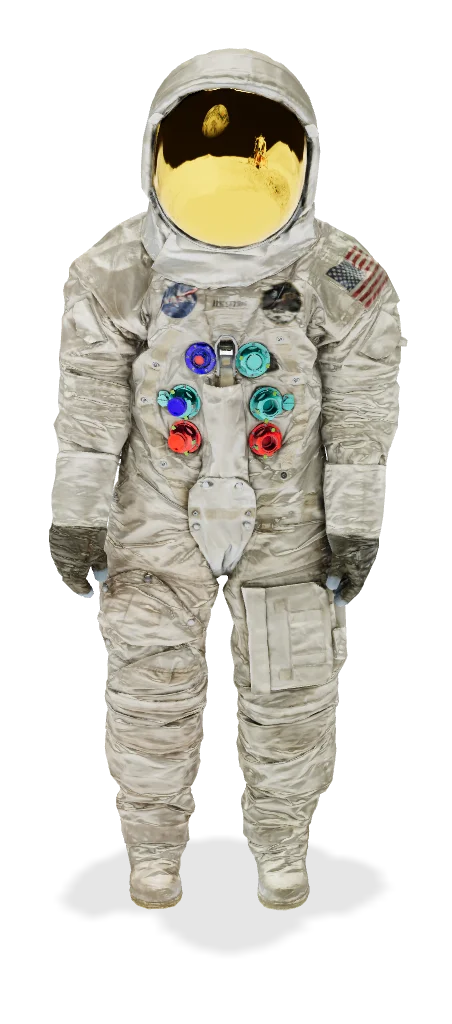
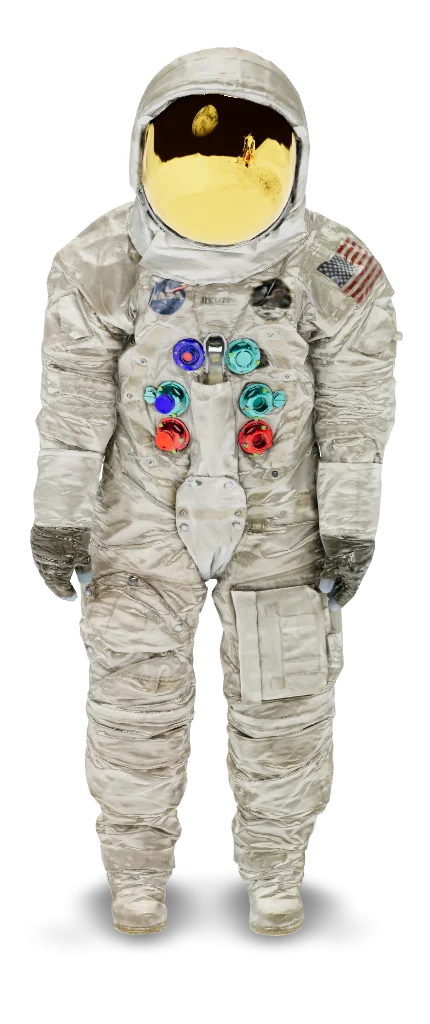
updated poster and a few minor HTML things

Changed region(s): [[0.0605, 0.0312, 0.9372, 0.9375]]

diff --git a/packages/modelviewer.dev/index.html b/packages/modelviewer.dev/index.html
@@ -76,7 +76,7 @@
 <script type="module" src="https://unpkg.com/@google/model-viewer/dist/model-viewer.min.js"></script>
 
 <!-- Use it like any other HTML element -->
-<model-viewer alt="Neil Armstrong's Spacesuit from the Smithsonian Digitization Programs Office and National Air and Space Museum" src="shared-assets/models/NeilArmstrong.glb" ar ar-modes="webxr scene-viewer quick-look" environment-image="shared-assets/environments/moon_1k.hdr" poster="shared-assets/models/NeilArmstrong.webp" seamless-poster shadow-intensity="1" camera-controls></model-viewer>
+<model-viewer alt="Neil Armstrong's Spacesuit from the Smithsonian Digitization Programs Office and National Air and Space Museum" src="shared-assets/models/NeilArmstrong.glb" ar ar-modes="webxr scene-viewer quick-look" environment-image="shared-assets/environments/moon_1k.hdr" poster="shared-assets/models/NeilArmstrong.webp" seamless-poster shadow-intensity="1" camera-controls enable-pan></model-viewer>
                 </template>
               </example-snippet>
             </div>
@@ -117,7 +117,7 @@
           <ol class="new-list-example">
             <li>
               <h4>
-                API <a href="docs/index.html">Documentation</a> &amp; <a href="examples/loading/index.html">Examples</a>
+                API <a href="docs/index.html">Documentation</a> &amp; <a href="examples/augmentedreality/index.html">Examples</a>
               </h4>
             </li>
           </ol>

diff --git a/packages/modelviewer.dev/examples/annotations/index.html b/packages/modelviewer.dev/examples/annotations/index.html
@@ -344,7 +344,6 @@
       poster="../../assets/SketchfabModels/ThorAndTheMidgardSerpent.webp"
       ar
       ar-modes="webxr scene-viewer quick-look"
-      oncontextmenu="return false;"
     >
   <button class="view-button" slot="hotspot-0" 
     data-position="-0.0569m 0.0969m -0.1398m" data-normal="-0.5829775m 0.2863482m -0.7603565m" 
@@ -409,14 +408,14 @@
 </model-viewer>
 
 <script type="module">
-  const modelViewer = document.querySelector("#hotspot-camera-view-demo");
+  const modelViewer1 = document.querySelector("#hotspot-camera-view-demo");
   const annotationClicked = (annotation) => {
     let dataset = annotation.dataset;
-    modelViewer.cameraTarget = dataset.target;
-    modelViewer.cameraOrbit = dataset.orbit;
+    modelViewer1.cameraTarget = dataset.target;
+    modelViewer1.cameraOrbit = dataset.orbit;
   }
 
-  modelViewer.querySelectorAll('button').forEach((hotspot) => {
+  modelViewer1.querySelectorAll('button').forEach((hotspot) => {
     console.log("hello hotspot", hotspot);
     hotspot.addEventListener('click', () => annotationClicked(hotspot));
   });

diff --git a/packages/modelviewer.dev/examples/loading/index.html b/packages/modelviewer.dev/examples/loading/index.html
@@ -467,7 +467,7 @@ self.ModelViewerElement.meshoptDecoderLocation = 'https://unpkg.com/meshoptimize
           </div>
           <example-snippet stamp-to="cyclingModels" highlight-as="html">
             <template>
-<model-viewer id="toggle-model" src="../../shared-assets/models/shishkebab.glb" alt="A 3D model of a shishkebab" shadow-intensity="1" camera-controls auto-rotate></model-viewer>
+<model-viewer id="toggle-model" src="../../shared-assets/models/shishkebab.glb" alt="A 3D model of a shishkebab" shadow-intensity="1" bounds="tight" camera-controls auto-rotate></model-viewer>
 <script>
     const models = ['shishkebab.glb', 'Astronaut.glb'];
     const toggleModel = document.querySelector('#toggle-model');
